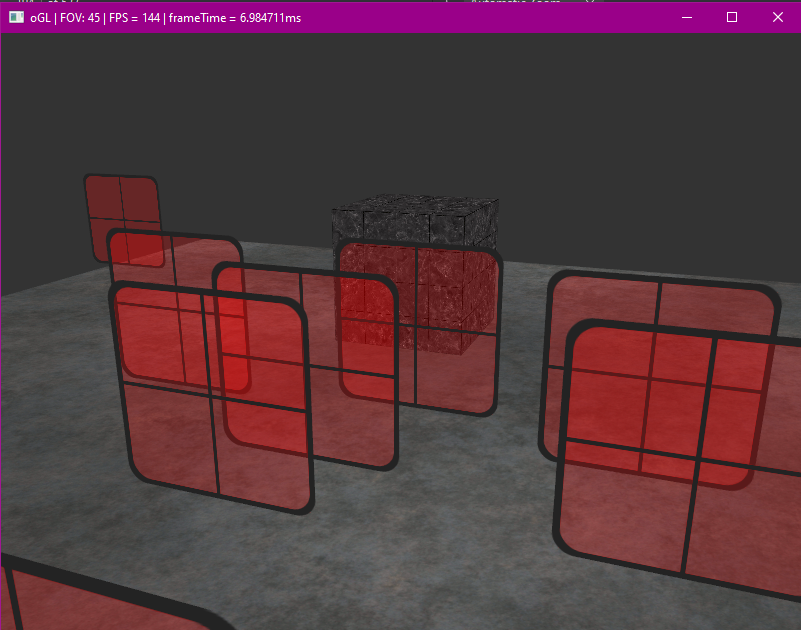
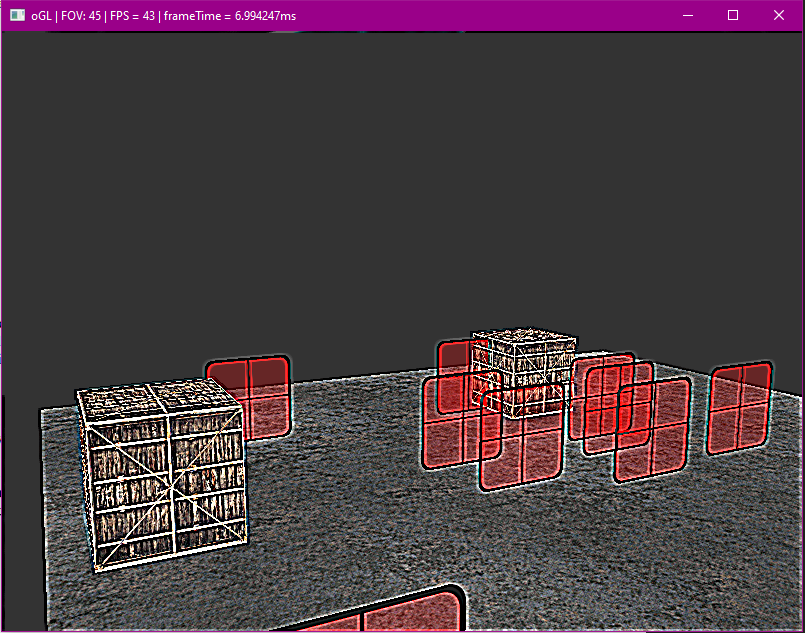
framebuffer and post-processing

diff --git a/src/main.cpp b/src/main.cpp
@@ -16,18 +16,8 @@
 #include <cmath>
 #include <string>
 
-unsigned int loadTexture(char const * path, unsigned int wrap_mode);
-
-glm::vec3 pointLightPositions[] = {
-    glm::vec3( 0.7f,  0.2f,   2.0f),
-    glm::vec3( 2.3f, -3.3f,  -4.0f),
-    glm::vec3(-4.0f,  2.0f, -12.0f),
-    glm::vec3( 0.0f,  0.0f,  -3.0f)
-};
-
-void framebuffer_size_callback(GLFWwindow *window, int width, int height){
-    glViewport(0, 0, width, height);
-}
+unsigned int window_width = 800;
+unsigned int window_height = 600;
 
 Camera cam;
 
@@ -38,6 +28,11 @@ float frameSum = 0.0f;
 int fpsCount = 0;
 int fpsHistoric = 0;
 
+void framebuffer_size_callback(GLFWwindow *window, int width, int height){
+    window_width = width;
+    window_height = height;
+    glViewport(0, 0, width, height);
+}
 void processInput(GLFWwindow *window){
     if (glfwGetKey(window, GLFW_KEY_ESCAPE) == GLFW_PRESS){
         glfwSetWindowShouldClose(window, true);
@@ -61,8 +56,8 @@ void processInput(GLFWwindow *window){
     
 }
 
-float lastX = 400.0f;
-float lastY = 300.0f;
+float lastX = (float)window_width/2.0f;
+float lastY = (float)window_height/2.0f;
 bool firstMouse = true;
 void mouse_callback(GLFWwindow* window, double xpos, double ypos){
     if (firstMouse){
@@ -80,6 +75,8 @@ void scroll_callback(GLFWwindow* window, double xoffset, double yoffset){
     cam.ProcessMouseScroll(yoffset);
 }
 
+unsigned int loadTexture(char const * path, unsigned int wrap_mode);
+
 int main(int argc, char **argv){
 
     GLFWwindow *window;
@@ -91,7 +88,7 @@ int main(int argc, char **argv){
     glfwWindowHint(GLFW_CONTEXT_VERSION_MINOR, 3);
     glfwWindowHint(GLFW_OPENGL_PROFILE, GLFW_OPENGL_CORE_PROFILE);
 
-    window = glfwCreateWindow(800, 600, "oGL", NULL, NULL);
+    window = glfwCreateWindow(window_width, window_height, "oGL", NULL, NULL);
     if (window == NULL){
         std::cerr << "Failed to create window\n";
         glfwTerminate();
@@ -121,7 +118,52 @@ int main(int argc, char **argv){
 
     cam.position = cam.position - glm::vec3(0.0f, 0.0f, -6.0f);
 
-   float cubeVertices[] = {
+    unsigned int fbo;
+    glGenFramebuffers(1, &fbo);
+    glBindFramebuffer(GL_FRAMEBUFFER, fbo);
+    unsigned int fbo_texture;
+    glGenTextures(1, &fbo_texture);
+    glBindTexture(GL_TEXTURE_2D, fbo_texture);
+    glTexImage2D(GL_TEXTURE_2D, 0, GL_RGB, window_width, window_height, 0, GL_RGB, GL_UNSIGNED_BYTE, NULL);
+    glTexParameteri(GL_TEXTURE_2D, GL_TEXTURE_MIN_FILTER, GL_LINEAR);
+    glTexParameteri(GL_TEXTURE_2D, GL_TEXTURE_MAG_FILTER, GL_LINEAR);
+    glFramebufferTexture2D(GL_FRAMEBUFFER, GL_COLOR_ATTACHMENT0, GL_TEXTURE_2D, fbo_texture, 0);
+    unsigned int rbo;
+    glGenRenderbuffers(1, &rbo);
+    glBindRenderbuffer(GL_RENDERBUFFER, rbo);
+    glRenderbufferStorage(GL_RENDERBUFFER, GL_DEPTH24_STENCIL8, window_width, window_height);
+    glFramebufferRenderbuffer(GL_FRAMEBUFFER, GL_DEPTH_STENCIL_ATTACHMENT, GL_RENDERBUFFER, rbo);
+    if(glCheckFramebufferStatus(GL_FRAMEBUFFER) != GL_FRAMEBUFFER_COMPLETE){
+        std::cerr << "Framebuffer creation error!" << std::endl;
+        return -1;
+    }
+    glBindFramebuffer(GL_FRAMEBUFFER, 0);
+    float quadVertices[] ={
+        -1.0f, 1.0f,    0.0f, 1.0f,
+        -1.0f,-1.0f,    0.0f, 0.0f,
+         1.0f,-1.0f,    1.0f, 0.0f,
+        
+        -1.0f, 1.0f,    0.0f, 1.0f,
+         1.0f,-1.0f,    1.0f, 0.0f,
+         1.0f, 1.0f,    1.0f, 1.0f
+    };
+    
+    unsigned int fbqVAO, fbqVBO;
+    glGenVertexArrays(1, &fbqVAO);
+    glGenBuffers(1, &fbqVBO);
+    glBindVertexArray(fbqVAO);
+    glBindBuffer(GL_ARRAY_BUFFER, fbqVBO);
+    glBufferData(GL_ARRAY_BUFFER, sizeof(quadVertices), &quadVertices, GL_STATIC_DRAW);
+    glEnableVertexAttribArray(0);
+    glVertexAttribPointer(0, 2, GL_FLOAT, GL_FALSE, sizeof(float) * 4, (void*)0);
+    glEnableVertexAttribArray(1);
+    glVertexAttribPointer(1, 2, GL_FLOAT, GL_FALSE, sizeof(float) * 4, (void*)(2 * sizeof(float)));
+    glBindVertexArray(0);
+    Shader fbq_shader = Shader("./vertex_fbquad.vs", "./fragment_fbquad.fs");
+    fbq_shader.use();
+    fbq_shader.setInt("screenTexture", 0);
+
+    float cubeVertices[] = {
         // positions          // texture Coords
         // back
         -0.5f, -0.5f, -0.5f,  1.0f, 0.0f,
@@ -233,8 +275,8 @@ int main(int argc, char **argv){
         v.TexCoords = { cubeVertices[i + 3], cubeVertices[i + 4] };
         cubeVerts.push_back(v);
     }
-    unsigned int cubeTexture = loadTexture("../res/marble.jpg", GL_CLAMP_TO_EDGE);
-    Texture cube_tex = {cubeTexture, "../res/marble.jpg", "texture_diffuse"};
+    unsigned int cubeTexture = loadTexture("../res/container.jpg", GL_CLAMP_TO_EDGE);
+    Texture cube_tex = {cubeTexture, "../res/container.jpg", "texture_diffuse"};
     Mesh M_cube = Mesh(cubeVerts, cubeInts, std::vector<Texture>{cube_tex});
 
 
@@ -276,12 +318,16 @@ int main(int argc, char **argv){
         glfwSetWindowTitle(window, windowTitle.c_str());
 
         processInput(window);
+
+        glBindFramebuffer(GL_FRAMEBUFFER, fbo);
+        glEnable(GL_DEPTH_TEST);
         glClearColor(0.2f, 0.2f, 0.2f, 1.0f);
         glClear(GL_COLOR_BUFFER_BIT | GL_DEPTH_BUFFER_BIT | GL_STENCIL_BUFFER_BIT);
+        
 
         glm::mat4 model = glm::mat4(1.0f);
         glm::mat4 view = cam.GetViewMatrix();
-        glm::mat4 projection = glm::perspective(glm::radians(cam.fov), 800.0f / 600.0f, 0.1f, 100.0f);
+        glm::mat4 projection = glm::perspective(glm::radians(cam.fov), ( (float)window_width / (float)window_height ), 0.1f, 100.0f);
         
         
         TexShader.use();
@@ -299,13 +345,11 @@ int main(int argc, char **argv){
         TexShader.setMat4("model", model);
         M_cube.Draw(TexShader);
 
-
         std::map<float, glm::vec3> sorted;
         for (unsigned int i = 0; i < transparencyPositions.size(); i++){
             float distance = glm::length(cam.position - transparencyPositions[i]);
             sorted[distance] = transparencyPositions[i];
-        }
-                
+        } 
         glBindVertexArray(trVAO);
         glBindTexture(GL_TEXTURE_2D, transparency);
         trShader.use();
@@ -319,11 +363,25 @@ int main(int argc, char **argv){
             glDrawArrays(GL_TRIANGLES, 0, 6);
         }
         
+        glBindFramebuffer(GL_FRAMEBUFFER, 0);
+        glDisable(GL_DEPTH_TEST);
+        glClearColor(1.0f, 1.0f, 1.0f, 1.0f);
+        glClear(GL_COLOR_BUFFER_BIT);
+        
+        fbq_shader.use();
+        glBindVertexArray(fbqVAO);
+        glBindTexture(GL_TEXTURE_2D, fbo_texture);
+        glDrawArrays(GL_TRIANGLES, 0, 6);
 
         glfwSwapBuffers(window);
         glfwPollEvents();
     }
- 
+    glDeleteVertexArrays(1, &trVAO);
+    glDeleteBuffers(1, &trVBO);
+    glDeleteVertexArrays(1, &fbqVAO);
+    glDeleteBuffers(1, &fbqVBO);
+
+    glDeleteFramebuffers(1, &fbo);
     glfwTerminate();
     return 0;
 }
